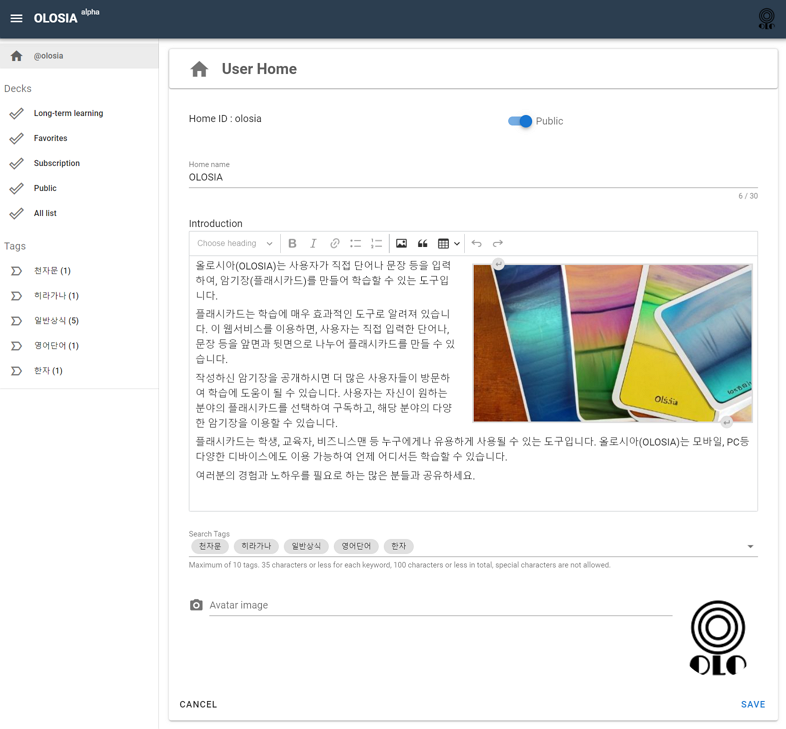
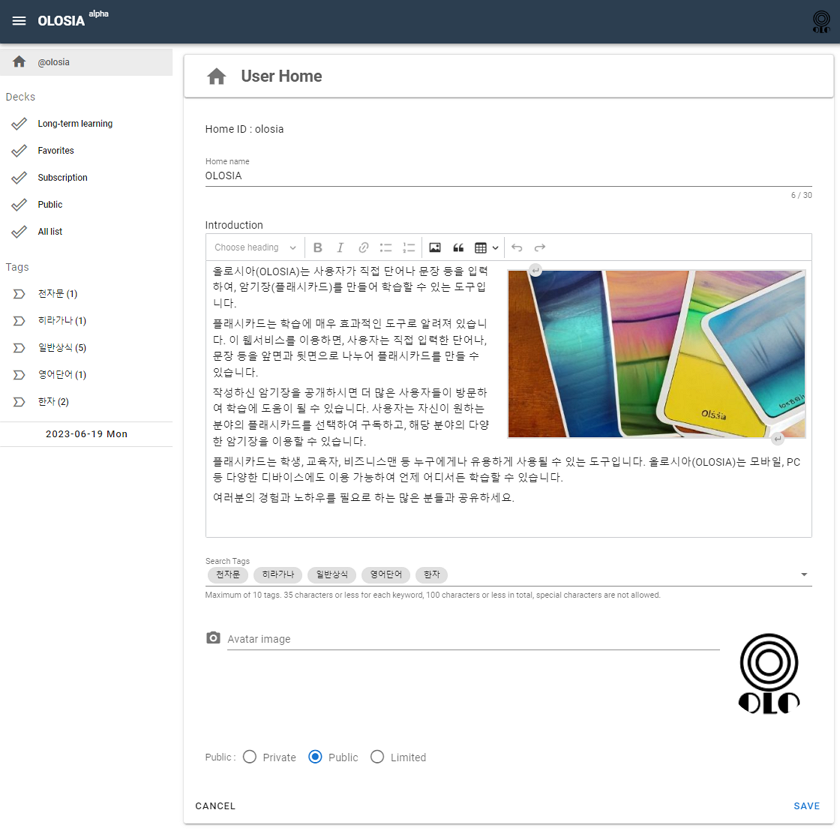
GITBOOK-46: change request with no subject merged in GitBook

diff --git a/user-home/manage-user-home.md b/user-home/manage-user-home.md
@@ -8,6 +8,8 @@ You can set your homepage name, introduction, tags, avatar, and whether it is pu
 
 If you make your homepage public, it will be visible to other users.
 
+If you set it to private, it will only be accessible to users who have entered the access password.
+
 The tags you create can also be used as a menu, and when creating a memory deck, you can choose the tags you registered.
 
 You can set up to 10 tags for your homepage.

diff --git a/olosia-main/ai-flashcards.md b/olosia-main/ai-flashcards.md
@@ -2,7 +2,7 @@
 description: Introducing a service that uses flashcards provided by AI to help you learn.
 ---
 
-# 🍐 AI Flashcards
+# 🍊 AI Flashcards
 
 Choose the language on the front and back of the card, select the difficulty level of the word, and look it up to get AI-provided flashcards.
 
